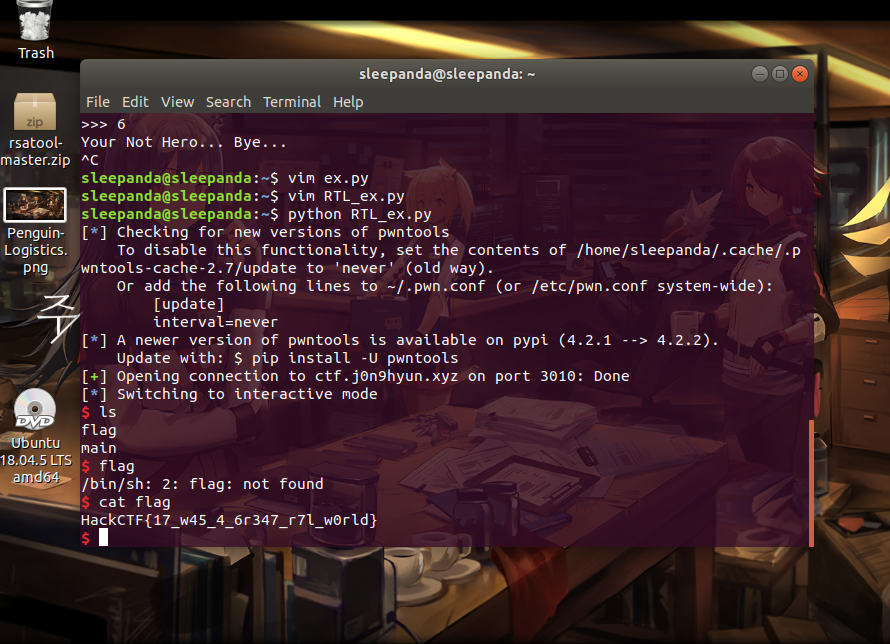
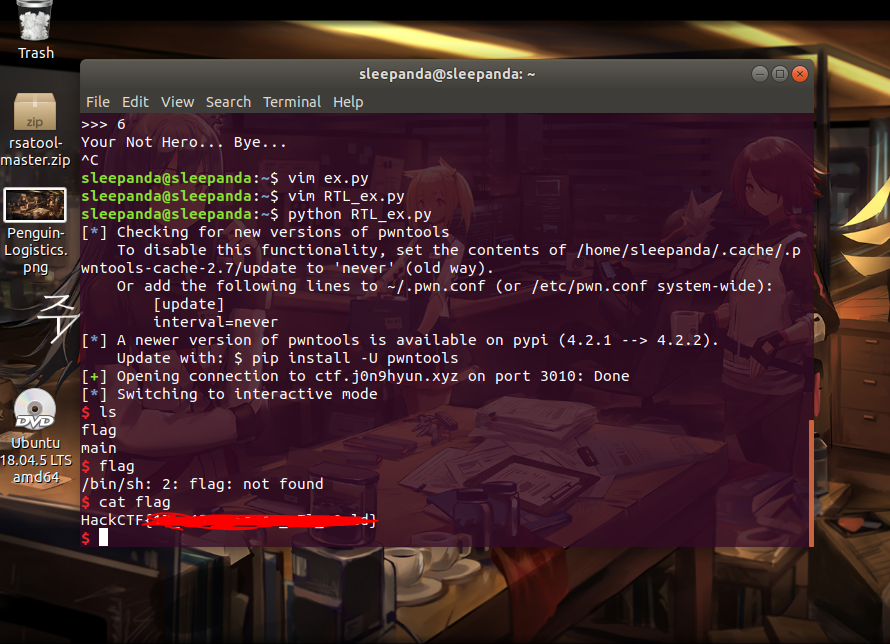
readme

Changed region(s): [[0.1517, 0.7764, 0.4247, 0.8385]]

diff --git a/HACKCTF/Pwnable/RTL_World/README.md b/HACKCTF/Pwnable/RTL_World/README.md
@@ -81,3 +81,7 @@ p.recvuntil("[Attack] > ")
 p.sendline(payload)
 p.interactive()
 ```    
+ -----------------------------------------  
+ 
+![run](run.PNG)    
+손쉽게 flag를 얻었다!   
